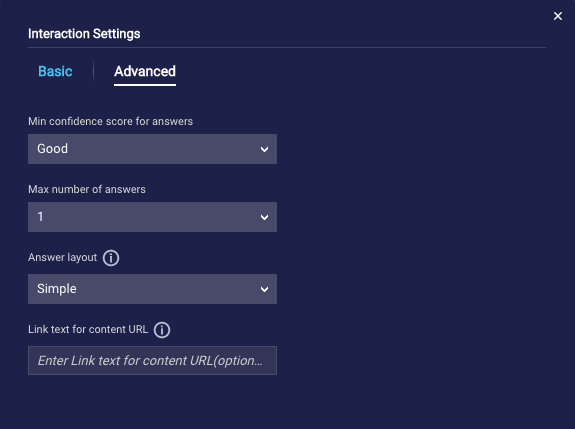
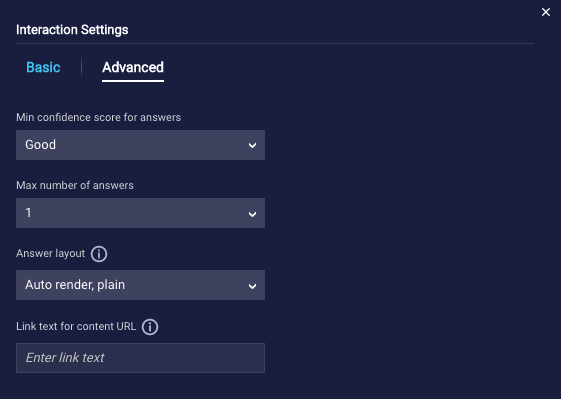
Update KAI tile settings doc in tutorial

diff --git a/pages/Documents/ConversationalAI/Tutorials&Guides/BotGroups&OtherTechniques/meta-intents-knowledge-bases.md b/pages/Documents/ConversationalAI/Tutorials&Guides/BotGroups&OtherTechniques/meta-intents-knowledge-bases.md
@@ -114,7 +114,7 @@ In our **Service Bot**, we will now create a FAQs dialog which will be triggered
 
 	<img style="width:600px" src="img/ConvoBuilder/advtutorial/kai_tile.png">
 
-5. In the Knowledge AI interaction, select the **Settings** icon and navigate to the **Advanced** menu. The Knowledge AI offers several options in how to display the article contents. For this example, select the **Simple** option from the **Answer layout** dropdown. This will ensure that the results are displayed in the same conversational fashion as our other interactions. Keep all other fields as their defaults and select the **Save** button.
+5. In the Knowledge AI interaction, select the **Settings** icon and navigate to the **Advanced** menu. The Knowledge AI offers several options in how to display the article contents. For this example, select the "Auto render, plain" option from the **Answer layout** dropdown. This will ensure that the results are displayed in the same conversational fashion as our other interactions. Keep all other fields as their defaults and select the **Save** button.
 
 	<img style="width:600px" src="img/ConvoBuilder/advtutorial/kai_tile_2.png">
 

diff --git a/pages/Documents/ConversationalAI/BotAnalytics/bot-performance.md b/pages/Documents/ConversationalAI/BotAnalytics/bot-performance.md
@@ -52,7 +52,7 @@ Some measures that are useful to assess while monitoring and improving your bots
 * Did they express any negative feedback or run into unforeseen problems?
 * How many conversations encountered fallback? 
 
-#### Escalations
+#### Transfers
 * Was the bot equipped with all the resources needed to satisfy the consumer's intent?
 * How often did an experience end up getting transferred from a bot to a human agent?
 
